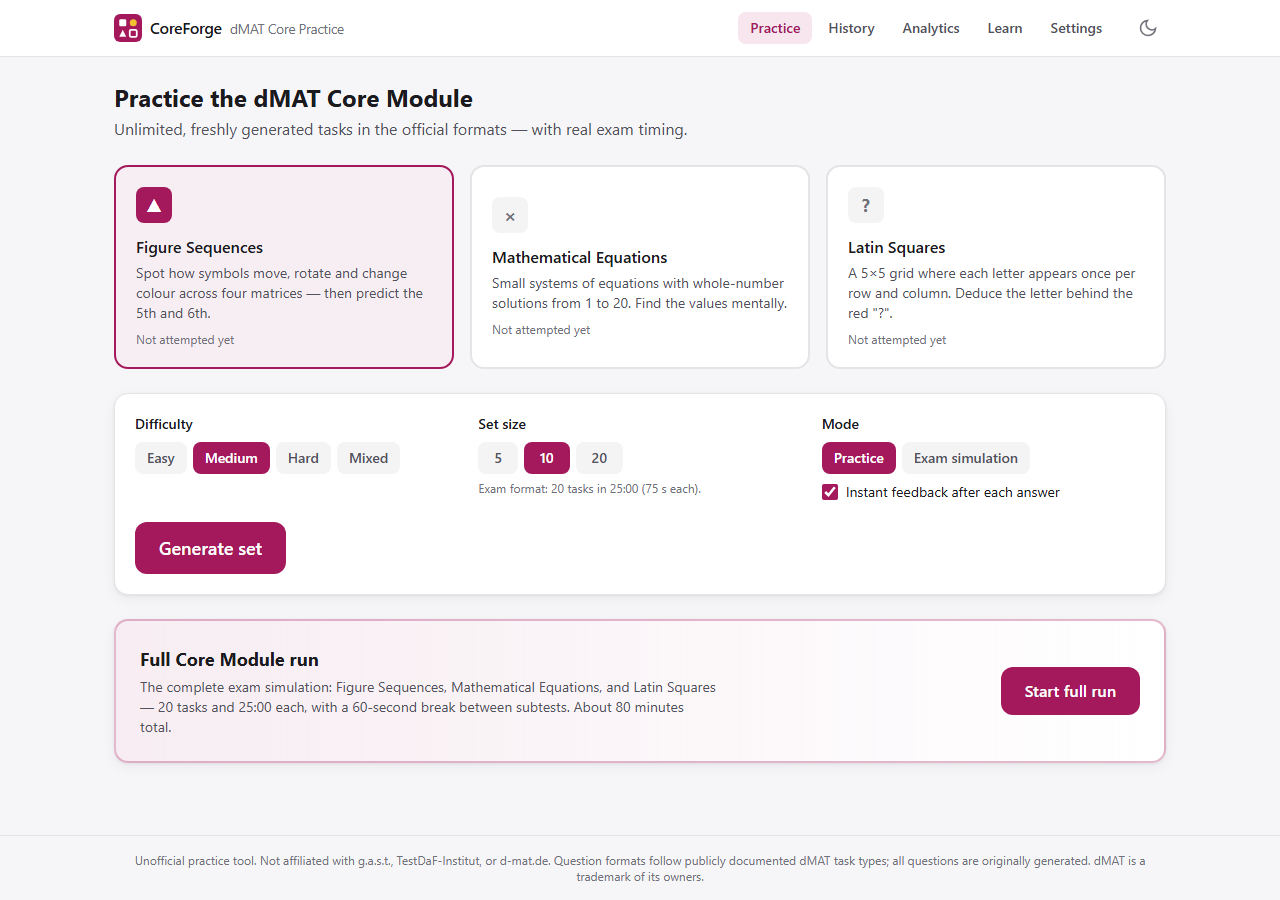
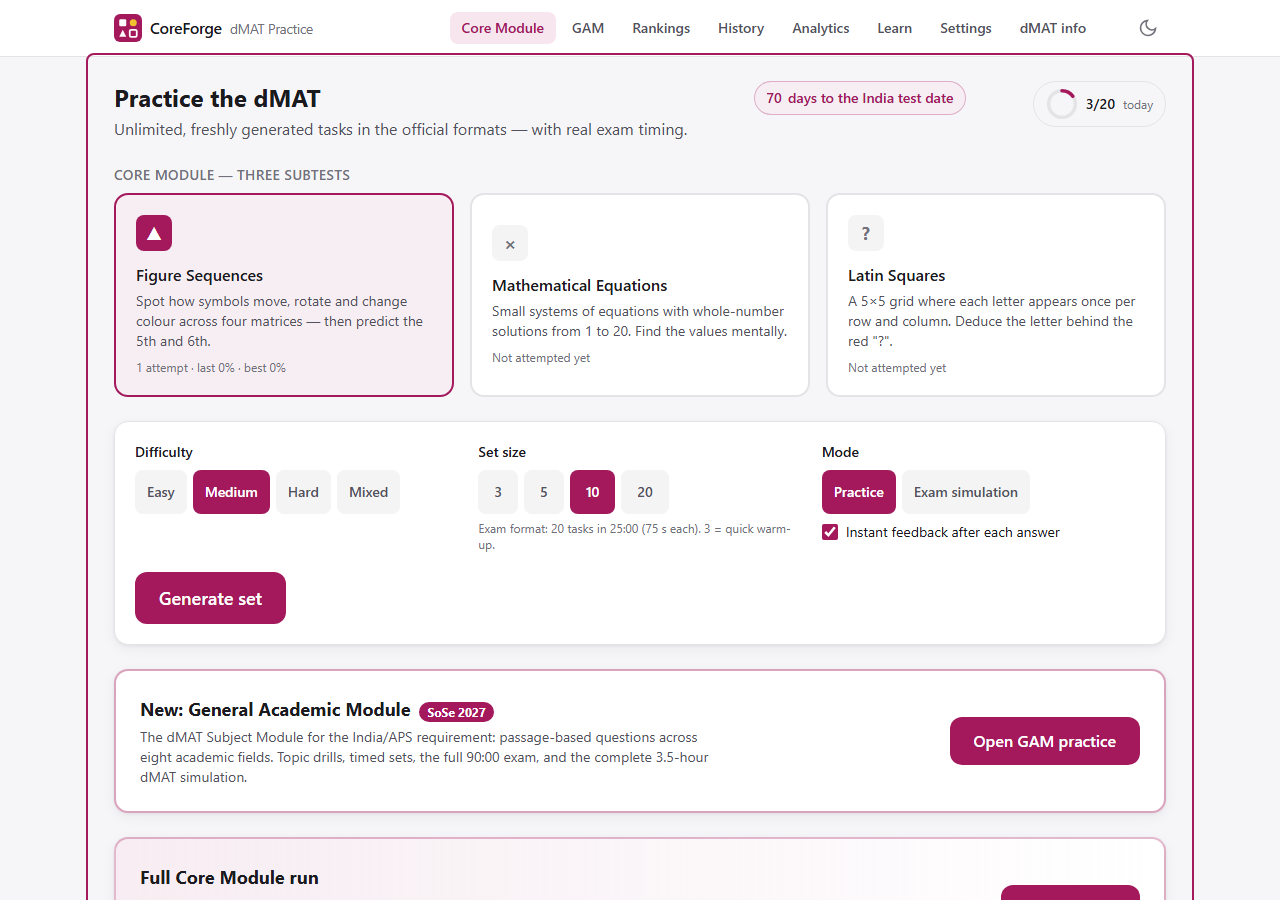
docs: refreshed screenshots, changelog, SEO page eager-loaded — Phase 6 complete
All five README screenshots regenerated from the live app via
scripts/readme-shots.mjs (real driven flows, zero console errors
captured), including the new gam-runner and dmat-info shots. CHANGELOG
added for 2.0.0. /dmat-info moved back to the eager bundle — the public
SEO entry page must not pay a chunk waterfall on a direct hit.

Lighthouse (mobile, production build): /welcome 94/96/100/100 — budget
met. /dmat-info 86/100/100/100 (network-bound LCP 2.6s, 0ms TBT). The
/ and /gam routes redirect signed-out visitors in production builds and
cannot be measured without an account — stated, not gamed.

Final regression: typecheck clean, 367/367 unit, 35/35 e2e across three
Playwright projects, production build + PWA precache green.

diff --git a/src/App.tsx b/src/App.tsx
@@ -16,11 +16,13 @@ import Footer from './ui/shell/Footer';
 import ToastHost from './ui/components/Toast';
 import Home from './ui/screens/Home';
 import Runner from './ui/screens/Runner';
+import DmatInfo from './ui/screens/DmatInfo';
 
 // Route-level code splitting: Landing/Home/Runner stay eager (entry paths and
-// the exam surface must never wait on a chunk); the rest load on demand.
+// the exam surface must never wait on a chunk), and so does DmatInfo — it is
+// the public SEO entry page, where a direct hit must not pay a chunk
+// waterfall on LCP. The rest load on demand.
 const GamHub = lazy(() => import('./ui/screens/GamHub'));
-const DmatInfo = lazy(() => import('./ui/screens/DmatInfo'));
 const Results = lazy(() => import('./ui/screens/Results'));
 const Review = lazy(() => import('./ui/screens/Review'));
 const Break = lazy(() => import('./ui/screens/Break'));

diff --git a/CHANGELOG.md b/CHANGELOG.md
@@ -1,0 +1,49 @@
+# Changelog
+
+## 2.0.0 — 2026-07-18 · CoreForge covers the complete dMAT
+
+### General Academic Module (new)
+- 16 original passages / 105 questions across all eight official topic areas,
+  every answer key independently re-verified before shipping; passage-based
+  runner with a desktop split view and a mobile passage/question toggle,
+  KaTeX math, tables, and themeable SVG figures.
+- Topic drills, timed sets, the full 90:00 GAM exam (balanced blueprint draw,
+  labeled as modeled on the official samples), and the complete ~3.5-hour
+  full-dMAT simulation: Core → official 30-minute module break → GAM, with a
+  combined per-module result and a clearly-labeled indicative 0–200 figure.
+- Review, mistakes notebook, same-seed retries, analytics (accuracy by topic
+  area, GAM pacing), points, leagues, and achievements all understand GAM.
+- Optional Gemini generation of brand-new passages (own key), firewalled by
+  the same validator as the seed bank plus an anti-plagiarism overlap check;
+  validated passages persist offline and feed a community passage pool.
+  Everything falls back to the built-in bank with no key and no cloud.
+
+### "Do I need the dMAT?" (new)
+- Public `/dmat-info` page with the complete official v1.0 affected-fields
+  list (all 129 Engineering branches, every Commerce and Business entry, and
+  the separate-assessment / not-automatically-covered sections) as a fuzzy
+  checker that never tells anyone they are "safe", plus dates, fees,
+  exemptions, timeline, and FAQ.
+
+### Site-wide
+- Two-module navigation (TopBar module switcher, reordered bottom tabs),
+  rewritten landing page, per-route titles, Open Graph / JSON-LD / sitemap.
+- Route-level code splitting (KaTeX and the passage bank load on demand,
+  react/supabase vendor chunks), skeleton loading states, error-retry states,
+  Settings reorganized into six anchored sections.
+- Accessibility pass: AA-contrast dark-mode accent text token, once-only
+  screen-reader timer warnings, working skip-to-content focus, heading-order
+  repairs, 44 px touch targets, ≥16 px inputs.
+- Mobile: card-list history, five-viewport Playwright matrix asserting zero
+  horizontal overflow and strict tap-target sizes.
+- Brand illustrations (flat editorial, magenta/plum) on the landing page, GAM
+  hub, and empty states; runtime-cached WebP ≤ 53 KB each.
+- Weekly rankings gain Core / General Academic / Combined views.
+
+### Fixed
+- "Skip break" in staged runs could bounce back to Home instead of starting
+  the next stage (stray redirect-guard race).
+- Screen readers were read the entire countdown every second during the
+  final minute; now a single announcement at 5:00 and 1:00.
+- README claimed the India requirement covers "computer science" degrees;
+  corrected to the three official field groups with the standalone-CS nuance.